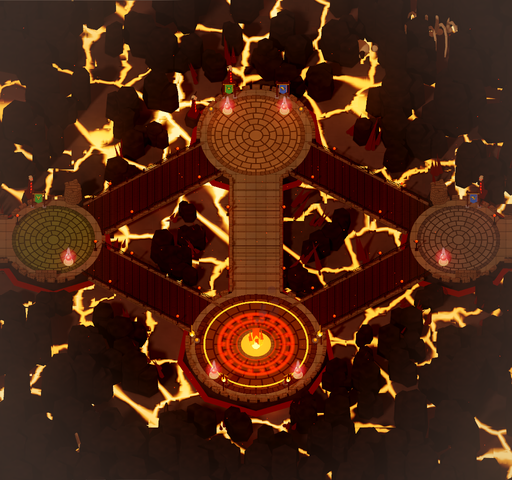
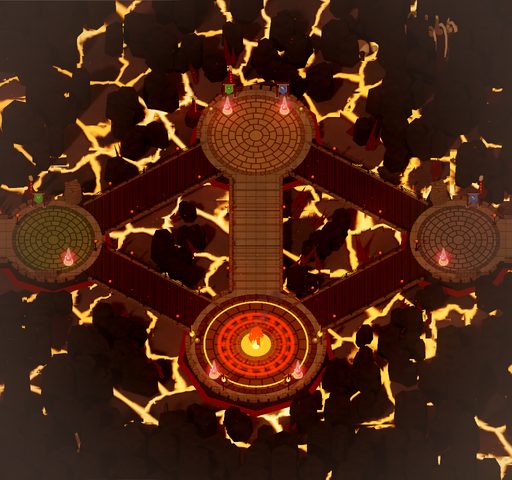
Exclude transient match effects from reusable map captures
Refresh card textures and both menu screenshots; link validated VFX follow-through PR139.

Agent: Codex-faisal2

diff --git a/docs/visual/2026-10-30-map-cards/gaps.md b/docs/visual/2026-10-30-map-cards/gaps.md
@@ -10,9 +10,9 @@ Source: eight supplied triptychs in C:/Games/ORY-Candidates/Crowns/visual-pass/w
 | Card crop and lock | 1024x960 source renders are filtered to 512x480 runtime textures to suppress grass/flower aliasing in small cards. The native Moonlit lock and level requirement remain separate UI. | Picked cards are wider and the settings panels have a different structure; this texture task does not change menu layout. |
 | Map hall | PR131 added stone corner columns and torches, now present in the refreshed menu captures. | Target retains richer foreground greenery and more sculpted masonry. |
 | Spawn / battle world | PR131 added paving relief and small leaf clumps while preserving the real overhead camera and green/blue identity. | Target has more physical stone bevels, canopy silhouette detail and deeper contact shading. Shader relief is not equivalent to fully modelled masonry. |
-| Hits / spells | PR131 added saturated normally blended bodies under additive effects on bright maps. | Verify paired layers stay aligned through their animation; `_sprite` currently samples a separate random rotation for each flat layer. This follow-up is isolated from the card PR. |
+| Hits / spells | PR131 added saturated normally blended bodies under additive effects on bright maps. | Paired rune layers were verified misaligned by 2.839551 radians; PR139 fixes their shared rotation, with day/GL/night render and lifetime checks. This follow-up is isolated from the card PR. |
 | Carry / level-up | Crown carrier glow and progression pillars remain legible, with existing timings and semantics. | Avoid overexposing the whole player; no reason to expand banners or effect coverage. |
 
 Capture-only settings: distance blur and atmospheric fog are disabled for elevated cameras; gameplay lighting and graphics settings remain unchanged. Actors, temporary fortify barrier and world labels are hidden in the reusable captures. Night uses the existing --debug-night flag so night lighting is real while the menu lock remains intact. Clean/labelled 4096x2304 orthographic exports share bounds JSON; image bounds are explicitly distinct from navigation bounds.
 
-Next bounded implementation: verify/fix the paired rune-layer rotation in the new daylight effects, measured with the real world/camera and fixed-timestep captures. Broad foliage and paving geometry fidelity remains separate visual work toward the approved target, not silently claimed complete by this card pass.
+Follow-through delivered separately: [PR139](https://github.com/faisaldayes1-web/crowns-of-the-wildwood/pull/139) fixes paired rune-layer rotation in the new daylight effects, measured with the real world/camera and fixed-timestep captures. Broad foliage and paving geometry fidelity remains separate visual work toward the approved target, not silently claimed complete by this card pass.

diff --git a/docs/visual/2026-10-30-map-cards/handoff.md b/docs/visual/2026-10-30-map-cards/handoff.md
@@ -17,3 +17,5 @@ Godot_v4.3-stable_win64_console.exe --path . --resolution 1280x720 --script tool
 Map indices: Wildwood 0, Moonlit 1 (also pass `--debug-night`), Stonekeep 3, Ember 2. The night flag changes lighting without unlocking the menu. `python tools/map_card_evidence.py --prepare-textures` filters source renders into runtime textures; reimport afterward. `--menu-only` captures the integrated menu; `--capture-touch` selects its touch layout. `python tools/map_card_evidence.py` assembles the unretouched before/after/target sheet and verifies exports against the filtered textures. The target triptych path is recorded in that script.
 
 Source look and capture choices are in look.md. This is reviewable progress toward the picked target; it does not claim that the game's foliage, masonry or VFX now fully match the target.
+
+Final export hygiene: captures hide transient projectile/Fx/skill-Fx nodes left during the startup fade as well as actors and labels. `--assets-only` refreshes card/map exports without overwriting the retained baseline menu screenshot. PR139 contains the independently validated rune-layer polish follow-through.
